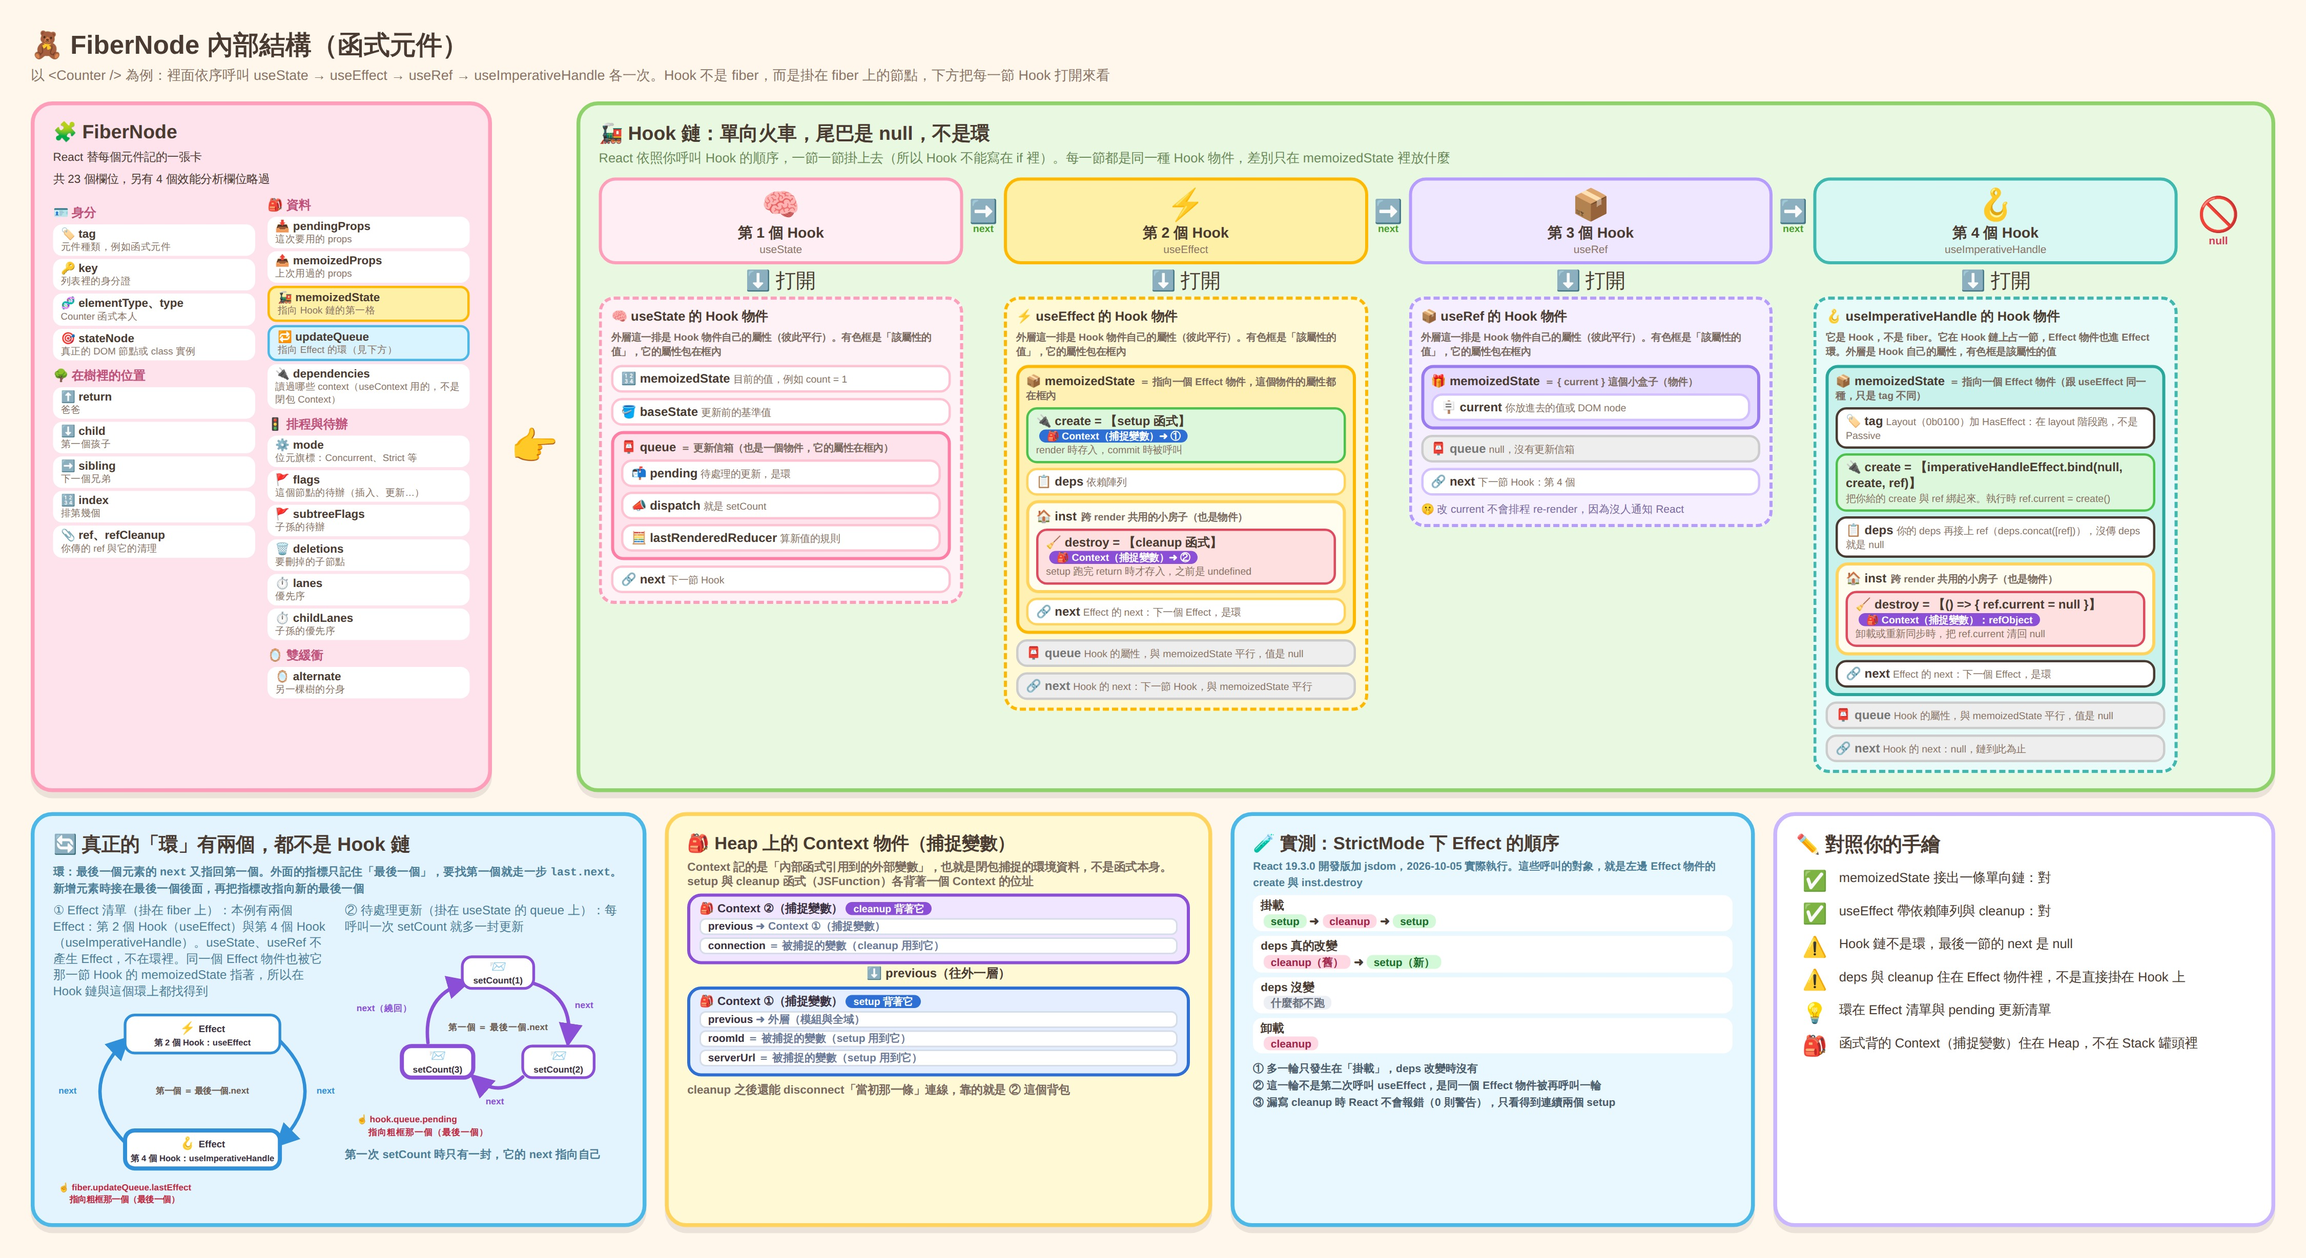
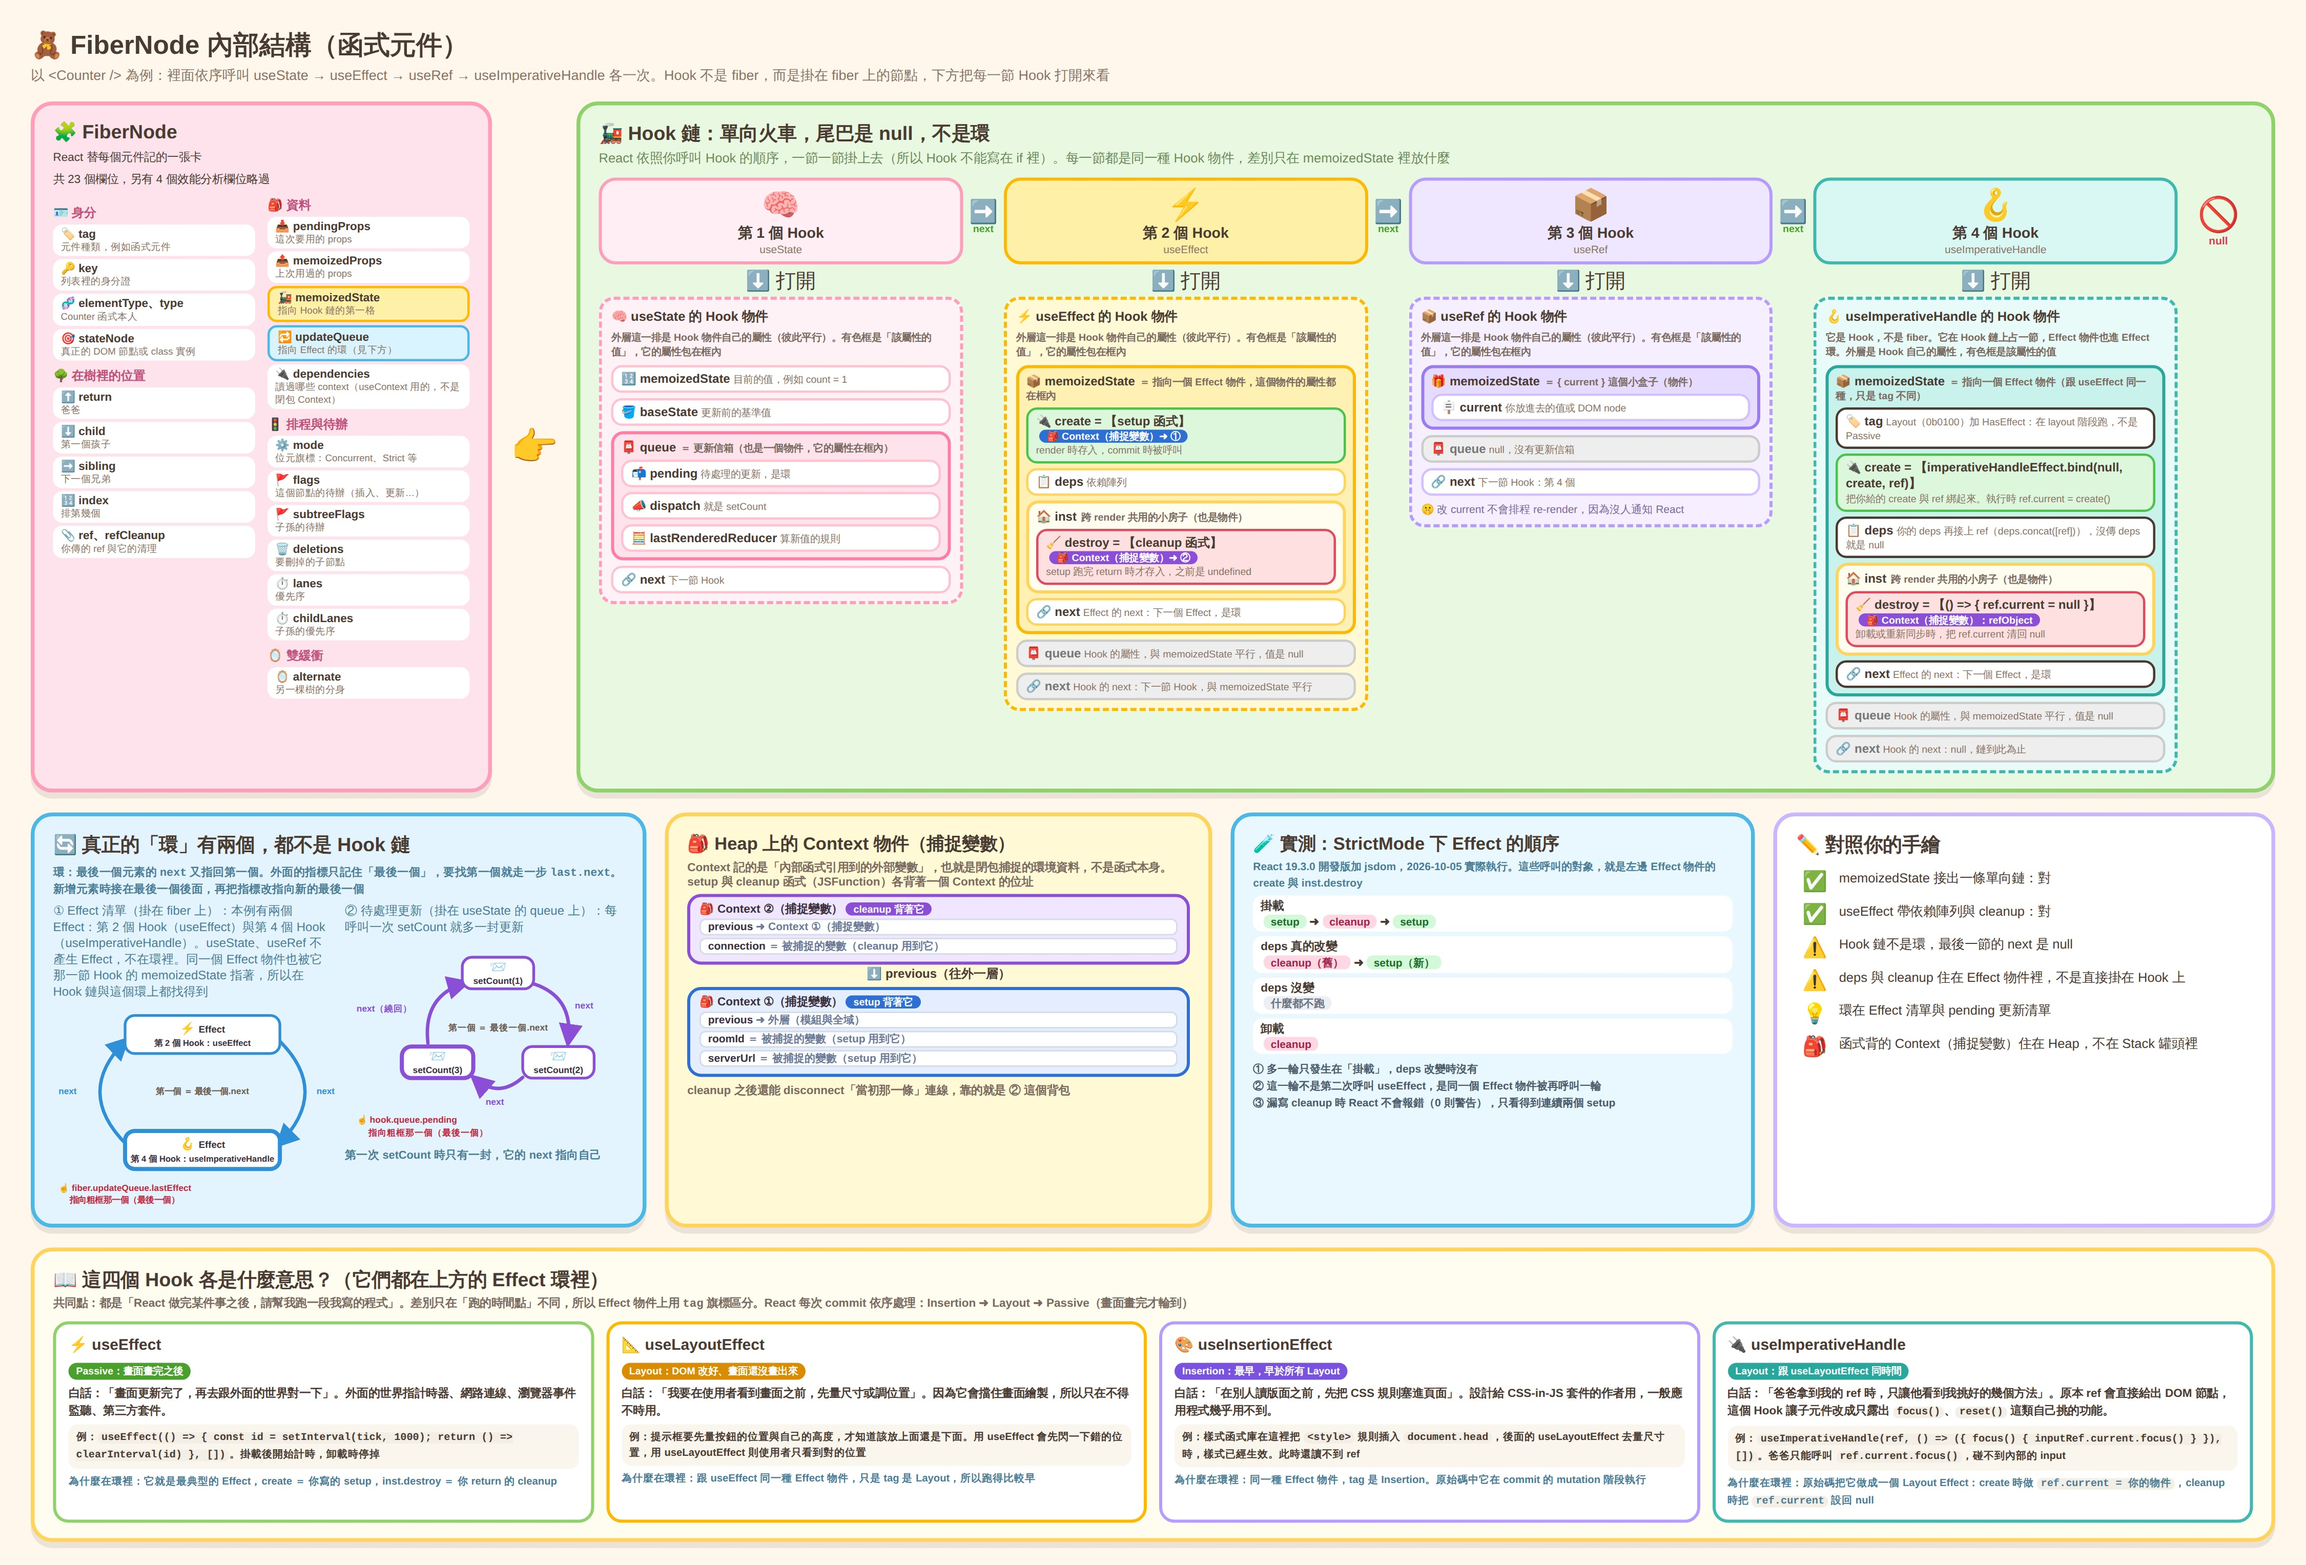
docs: Fiber 圖新增四個 Effect 類 Hook 的白話說明卡；02 (f) 補四個 Hook 的意思、時機、例子對照表
Claude-Session: https://claude.ai/code/session_01PD3MQfAvZiER3ctSXocKXC

diff --git a/frontend-docs/react/FiberNode內部結構-可愛圖.html b/frontend-docs/react/FiberNode內部結構-可愛圖.html
@@ -99,6 +99,20 @@ td:first-child{width:44px;font-size:26px}
 .car.ih{background:#d9f7f3;border-color:#3fb8af}
 .pop.h{background:#e9fbf8;border-color:#3fb8af}
 .nest.nh2{background:#c9f2ec;border-color:#2aa79d}
+.legend{margin-top:26px;background:#fffdf0;border-color:#ffd35c}
+.legend h2{margin:0 0 4px;font-size:25px}
+.lgcap{font-size:15px;color:#7a6a5f;font-weight:600;margin-bottom:10px;line-height:1.5}
+.lgrow{display:flex;gap:16px}
+.lg{flex:1;min-width:0;background:#fff;border-radius:20px;padding:12px 16px;border:4px solid;font-size:15px;line-height:1.55;font-weight:600}
+.lg h3{margin:0 0 6px;font-size:20px}
+.lg .when{display:inline-block;border-radius:999px;padding:1px 10px;font-size:13px;font-weight:800;color:#fff;margin-bottom:6px}
+.lg code{background:#f3eee6;border-radius:6px;padding:0 5px;font-size:13.5px}
+.lg .ex{margin-top:6px;background:#faf6ee;border-radius:12px;padding:6px 10px;font-size:13.5px}
+.lg .why{margin-top:6px;color:#4c7d96;font-size:13.5px}
+.lg1{border-color:#8fd16a}.lg1 .when{background:#4aa02c}
+.lg2{border-color:#ffb800}.lg2 .when{background:#d98c00}
+.lg3{border-color:#b79cff}.lg3 .when{background:#7a52e0}
+.lg4{border-color:#3fb8af}.lg4 .when{background:#2aa79d}
 </style>
 </head>
 <body>
@@ -242,6 +256,16 @@ td:first-child{width:44px;font-size:26px}
         <tr><td>💡</td><td>環在 Effect 清單與 pending 更新清單</td></tr>
         <tr><td>🎒</td><td>函式背的 Context（捕捉變數）住在 Heap，不在 Stack 罐頭裡</td></tr>
       </table>
+    </div>
+  </div>
+  <div class="card legend">
+    <h2>📖 這四個 Hook 各是什麼意思？（它們都在上方的 Effect 環裡）</h2>
+    <div class="lgcap">共同點：都是「React 做完某件事之後，請幫我跑一段我寫的程式」。差別只在「跑的時間點」不同，所以 Effect 物件上用 <code>tag</code> 旗標區分。React 每次 commit 依序處理：Insertion ➜ Layout ➜ Passive（畫面畫完才輪到）</div>
+    <div class="lgrow">
+      <div class="lg lg1"><h3>⚡ useEffect</h3><span class="when">Passive：畫面畫完之後</span><br>白話：「畫面更新完了，再去跟外面的世界對一下」。外面的世界指計時器、網路連線、瀏覽器事件監聽、第三方套件。<div class="ex">例：<code>useEffect(() =&gt; { const id = setInterval(tick, 1000); return () =&gt; clearInterval(id) }, [])</code>。掛載後開始計時，卸載時停掉</div><div class="why">為什麼在環裡：它就是最典型的 Effect，create ＝ 你寫的 setup，inst.destroy ＝ 你 return 的 cleanup</div></div>
+      <div class="lg lg2"><h3>📐 useLayoutEffect</h3><span class="when">Layout：DOM 改好、畫面還沒畫出來</span><br>白話：「我要在使用者看到畫面之前，先量尺寸或調位置」。因為它會擋住畫面繪製，所以只在不得不時用。<div class="ex">例：提示框要先量按鈕的位置與自己的高度，才知道該放上面還是下面。用 useEffect 會先閃一下錯的位置，用 useLayoutEffect 則使用者只看到對的位置</div><div class="why">為什麼在環裡：跟 useEffect 同一種 Effect 物件，只是 tag 是 Layout，所以跑得比較早</div></div>
+      <div class="lg lg3"><h3>🎨 useInsertionEffect</h3><span class="when">Insertion：最早，早於所有 Layout</span><br>白話：「在別人讀版面之前，先把 CSS 規則塞進頁面」。設計給 CSS-in-JS 套件的作者用，一般應用程式幾乎用不到。<div class="ex">例：樣式函式庫在這裡把 <code>&lt;style&gt;</code> 規則插入 <code>document.head</code>，後面的 useLayoutEffect 去量尺寸時，樣式已經生效。此時還讀不到 ref</div><div class="why">為什麼在環裡：同一種 Effect 物件，tag 是 Insertion。原始碼中它在 commit 的 mutation 階段執行</div></div>
+      <div class="lg lg4"><h3>🔌 useImperativeHandle</h3><span class="when">Layout：跟 useLayoutEffect 同時間</span><br>白話：「爸爸拿到我的 ref 時，只讓他看到我挑好的幾個方法」。原本 ref 會直接給出 DOM 節點，這個 Hook 讓子元件改成只露出 <code>focus()</code>、<code>reset()</code> 這類自己挑的功能。<div class="ex">例：<code>useImperativeHandle(ref, () =&gt; ({ focus() { inputRef.current.focus() } }), [])</code>。爸爸只能呼叫 <code>ref.current.focus()</code>，碰不到內部的 input</div><div class="why">為什麼在環裡：原始碼把它做成一個 Layout Effect：create 時做 <code>ref.current = 你的物件</code>，cleanup 時把 <code>ref.current</code> 設回 null</div></div>
     </div>
   </div>
 </div>
